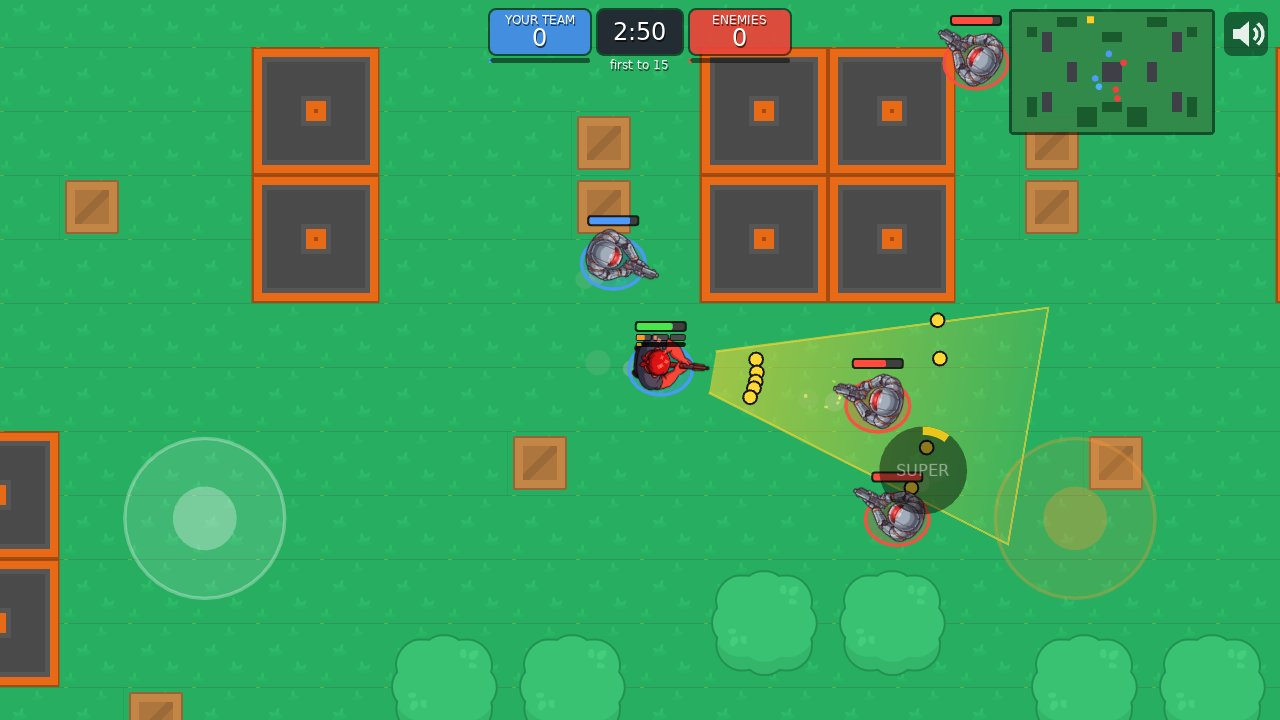
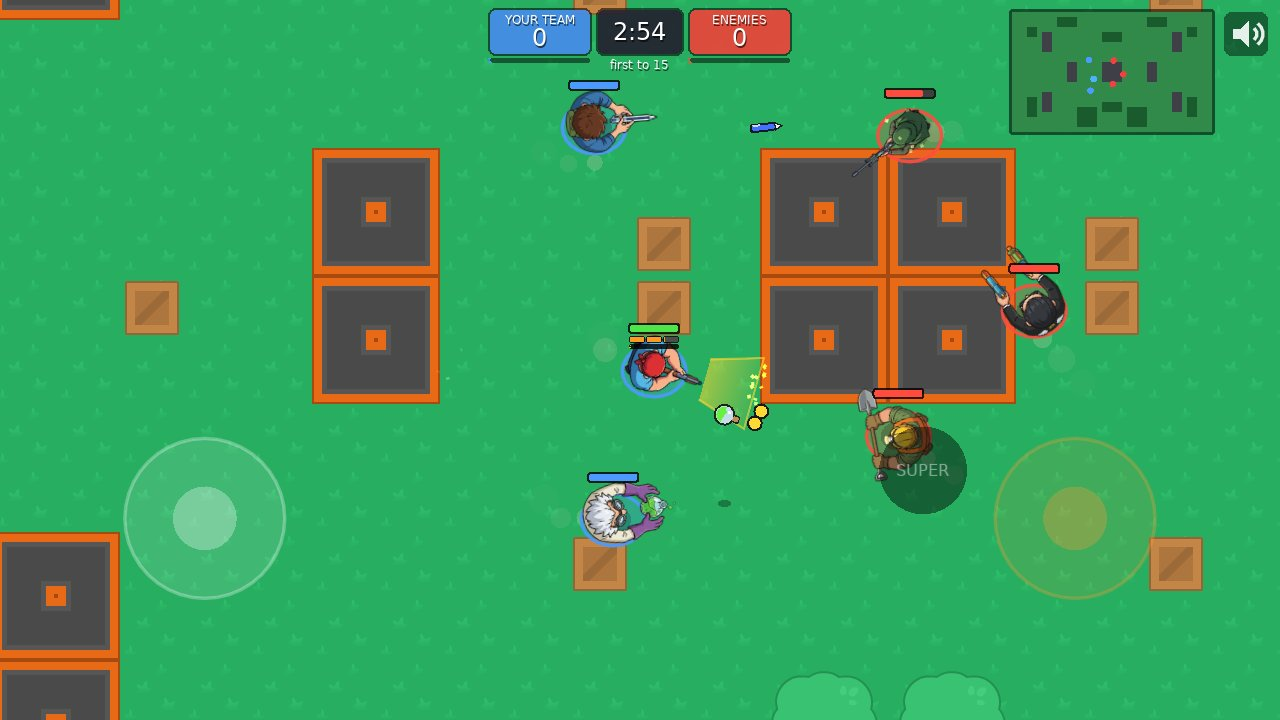
Website: new gameplay screenshot (bots are real rowdies now)

diff --git a/website/index.html b/website/index.html
@@ -24,7 +24,7 @@
       <a class="btn code" href="https://github.com/ZeroMips/yard-wars">Source code</a>
     </p>
     <img class="shot" src="images/gameplay.jpg" width="1280" height="720"
-         alt="A team fight in the yard: shotgun pellets fly towards a red enemy bot">
+         alt="A team fight in the yard: the Shotgunner and two team mates against three rowdies of the red team">
     <p class="build" id="build">Free, no ads, no accounts. Runs on Android, Windows, macOS and Linux.</p>
   </div>
 </header>
